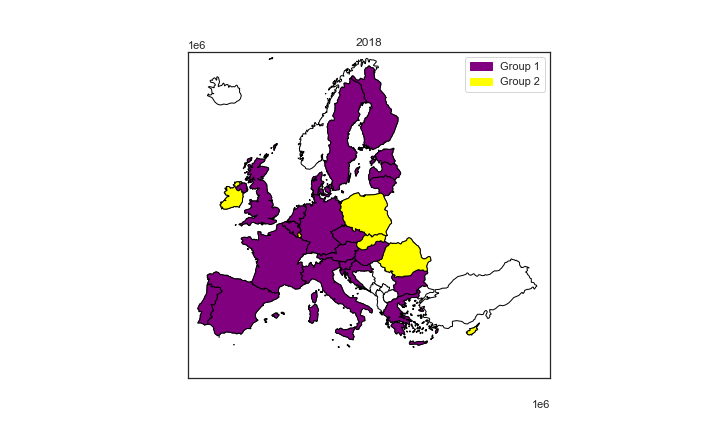
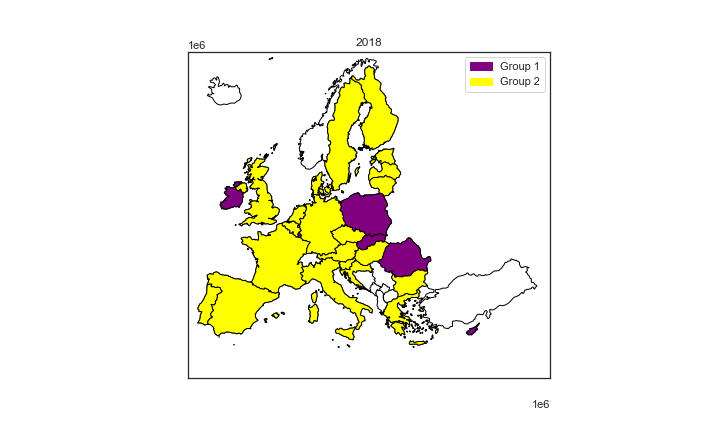
addding fitted curve

Changed region(s): [[0.275, 0.1505, 0.6111, 0.7824], [0.6417, 0.7523, 0.6722, 0.7824], [0.4583, 0.7523, 0.4889, 0.7824]]

diff --git a/ClusteringPoster.py b/ClusteringPoster.py
@@ -7,11 +7,13 @@ Created on Tue May  2 13:54:31 2023
 
 import pandas as pd
 import matplotlib.pyplot as plt
+import matplotlib.pylab as plt
 import matplotlib.patches as mpatches
 import sklearn.cluster as cluster
 import sklearn.metrics as skmet
+import scipy.optimize as opt
 import cluster_tools as ct
-import shapefile as shp
+import errors as err
 import seaborn as sns
 import numpy as np
 import geopandas as gpd
@@ -54,7 +56,21 @@ def getDfs(filename):
     
     return temp_df, temp_df_tr
 
-def createClusters(label1, label2, year, n = 2):
+def createClusters(label1, label2, year):
+    """
+    Parameters
+    ----------
+    label1 : The first parameter for generating clusters
+    
+    label2 : the second label for generating clusters
+    
+    year : the year to generate clusters for
+        
+    Returns
+    -------
+    Generates a scatter graph showing a clusters for EU members for the passed
+    parameters in the given year
+    """
     
     #list of EU members with their world bank and EU shpae file labels
     #Used to filter the world bank data and the shape file in order to plot
@@ -110,7 +126,7 @@ def createClusters(label1, label2, year, n = 2):
     cluster_df = cluster_data[0]
 
     #training the cluster model on the data we have
-    ncluster = n
+    ncluster = 2
     kmeans = cluster.KMeans(n_clusters = ncluster)
     kmeans.fit(cluster_df)
     labels = kmeans.labels_
@@ -170,6 +186,9 @@ def createClusters(label1, label2, year, n = 2):
     temp.plot(ax = axel, 
               color = 'Purple', 
               edgecolor='black', )
+    
+    print([i for i in df[df['Groups'] == 0].index])
+    print([i for i in df[df['Groups'] == 1].index])
 
     Group2_Codes = [WB2EU[i] for i in df[df['Groups'] == 1].index]
     temp = map_df.loc[Group2_Codes]
@@ -208,9 +227,79 @@ URB_df, URB_df_tr = getDfs('World_Bank_Data/Urban_pop.csv')
 createClusters('Higher', 'Retired', '1995')
 createClusters('Higher', 'Retired', '2018')
 
+#%%
 
+fig, ax = plt.subplots()
 
+target_df = URB_df_tr.drop('Unnamed: 66')
 
+#RET_df_tr = RET_df_tr.drop('Unnamed: 66')
 
+ax.scatter(target_df.index, target_df['European Union'])
 
+plt.xlabel('Year')
+plt.xticks(rotation = 90)
+
+def linear(t, s, k, t0):
+    t = t-t0
+    f = s + k*t
+    return f
+
+def poly(t, c0, c1, c2, c3, t0):
+    t = t - t0
+    f = c0 + c1*t + c2*t**2 + c3*t**3
+    return f
+
+def err_ranges(x, func, param, sigma):
+    """
+    Calculates the upper and lower limits for the function, parameters and
+    sigmas for single value or array x. Functions values are calculated for 
+    all combinations of +/- sigma and the minimum and maximum is determined.
+    Can be used for all number of parameters and sigmas >=1.
+    
+    This routine can be used in assignment programs.
+    """
+
+    import itertools as iter
+    
+    # initiate arrays for lower and upper limits
+    lower = [func(i, *param) for i in x]
+    upper = lower
+    
+    uplow = []   # list to hold upper and lower limits for parameters
+    for p, s in zip(param, sigma):
+        pmin = p - s
+        pmax = p + s
+        uplow.append((pmin, pmax))
+    
+    pmix = list(iter.product(*uplow))
+    
+    for p in pmix:
+        y = [func(i, *p) for i in x]
+        lower = np.minimum(lower, y)
+        upper = np.maximum(upper, y)
+        
+    return lower, upper, pmix  
+
+years = [int(i) for i in list(target_df.index)]
+initparam = [60, 1, 1, 1, 1960]
+param, covar = opt.curve_fit(poly, 
+                             years, 
+                             target_df['European Union'],
+                             p0 = initparam)
+
+pop_est = [poly(i, *param) for i in years]
+ax.plot(target_df.index, pop_est, color = 'black')
+
+sigma = np.sqrt(np.diag(covar))
+
+#errorLow, errorUp, uplow = err_ranges(years, poly, param, sigma)
+#plt.fill_between(target_df.index, errorLow, errorUp, alpha = 0.7)
+
+# =============================================================================
+# years = [int(i) for i in list(group2_df.index)]
+# param, covar = opt.curve_fit(poly, years, group2_df['mean'])
+# pop_est = [poly(i, *param) for i in years]
+# ax.plot(group2_df.index, pop_est, color = 'black')
+# =============================================================================
 

diff --git a/errors.py b/errors.py
@@ -1,0 +1,37 @@
+""" Module errors. It provides the function err_ranges which calculates upper
+and lower limits of the confidence interval. """
+
+import numpy as np
+
+
+def err_ranges(x, func, param, sigma):
+    """
+    Calculates the upper and lower limits for the function, parameters and
+    sigmas for single value or array x. Functions values are calculated for 
+    all combinations of +/- sigma and the minimum and maximum is determined.
+    Can be used for all number of parameters and sigmas >=1.
+    
+    This routine can be used in assignment programs.
+    """
+
+    import itertools as iter
+    
+    # initiate arrays for lower and upper limits
+    lower = [func(i, *param) for i in x] 
+    upper = lower
+    
+    uplow = []   # list to hold upper and lower limits for parameters
+    for p, s in zip(param, sigma):
+        pmin = p - s
+        pmax = p + s
+        uplow.append((pmin, pmax))
+        
+    pmix = list(iter.product(*uplow))
+    
+    for p in pmix:
+        y = func(x, *p)
+        lower = np.minimum(lower, y)
+        upper = np.maximum(upper, y)
+        
+    return lower, upper   
+
